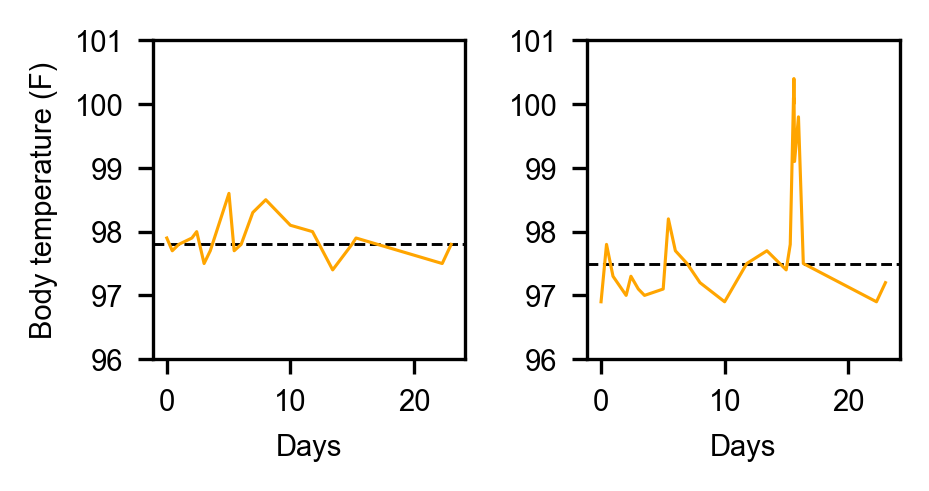
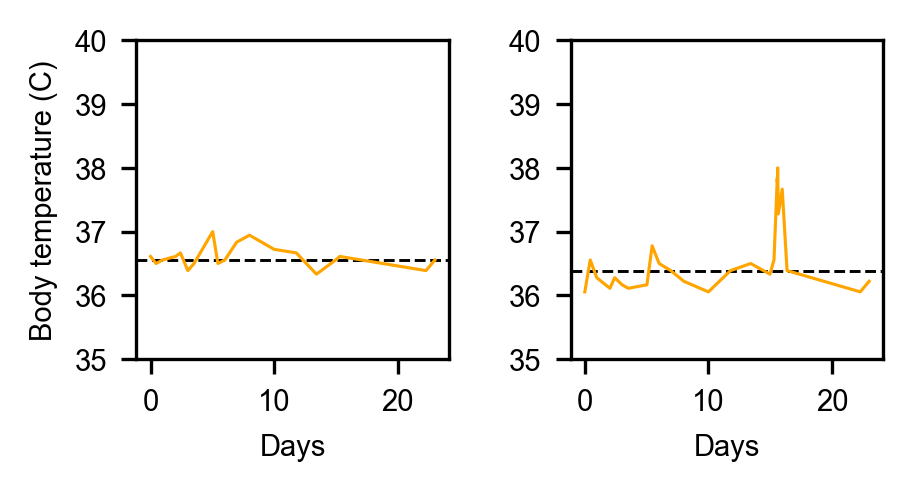
update health stats

diff --git a/health_stats_Di_Shaohe.md b/health_stats_Di_Shaohe.md
@@ -1,19 +1,32 @@
 ---
 layout: player_stats
-title: Di and Shaohe Health Statistics
+title: Di and Shaohe Health
 author: Shaohe Wang
 author_url: https://scholar.google.com/citations?user=R_-kJV4AAAAJ&hl=en
 date: 2021-05-02
 ---
 
+### 左：吴笛；右：王少鹤
+
+
+#### 体重（千克）；蓝色：早起；灰色：睡前
+#### 横坐标表示从测量开始的天数（起始：2021年3月25日）
 <img src="/assets/images/body_weight_plot.png" alt="Plot of body weight record" />
 
+#### 腰围（厘米）
+#### 横坐标表示从测量开始的天数（起始：2021年4月30日）
 <img src="/assets/images/waist_perimeter_plot.png" alt="Plot of waist perimeter record" />
 
+#### 体温（摄氏度）
+#### 横坐标表示从测量开始的天数（起始：2021年4月5日）
 <img src="/assets/images/body_temperature_plot.png" alt="Plot of body temperature record" />
 
+#### 血压（毫米汞柱）
+#### 横坐标表示从测量开始的天数（起始：2021年4月5日）
 <img src="/assets/images/blood_pressure_plot.png" alt="Plot of blood pressure record" />
 
+#### 脉搏（每分钟脉搏数）
+#### 横坐标表示从测量开始的天数（起始：2021年4月5日）
 <img src="/assets/images/pulse_rate_plot.png" alt="Plot of pulse rate record" />
 
 ## Source Data
